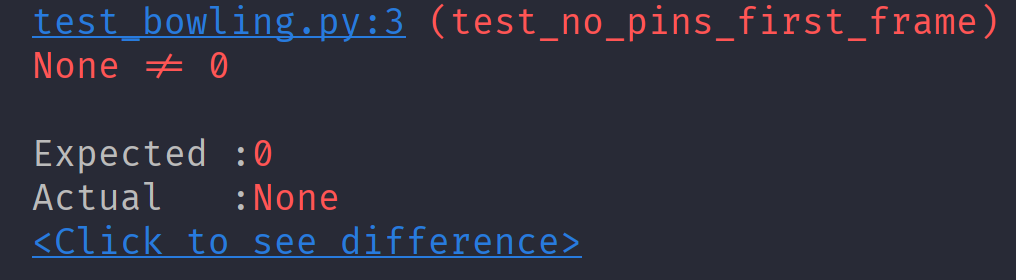
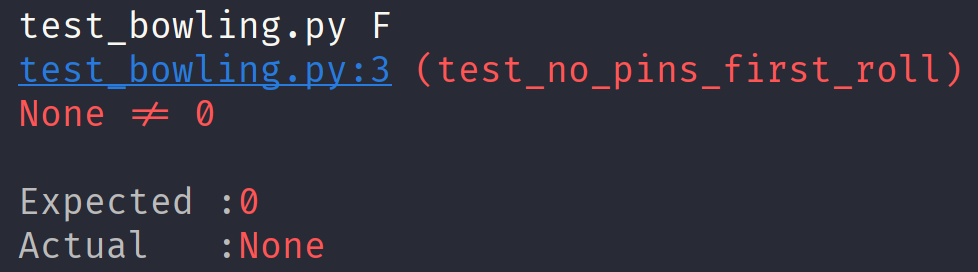
Pass: Given no pins were knocked down on the first frame, the score should be zero

diff --git a/bowling/test_bowling.py b/bowling/test_bowling.py
@@ -1,9 +1,9 @@
 from bowling.bowling import score_for
 
 
-def test_no_pins_first_frame():
+def test_no_pins_first_roll():
     """
-    Given no pins were knocked down on the first frame
+    Given no pins were knocked down on the first roll
     The score should be zero
     """
     assert score_for(all_rolls="0") == 0

diff --git a/bowling/bowling.py b/bowling/bowling.py
@@ -6,4 +6,4 @@ def score_for(all_rolls):
     :param all_rolls: string
     :return: int
     """
-    return None
+    return 0

diff --git a/README.md b/README.md
@@ -73,14 +73,14 @@ like to use a different one: ** The bowling kata ** The requirements of this kat
 I would start by implementing my new function returning None as first step. We return None, which
 is the top value in the transformation sequence:
 
-```
+```python
 def score_for(all_rolls):
     return None
 ```
 
 And implement a failing tests for a simple use case:
 
-```
+```python
 def test_no_pins_first_roll():
     """
     Given no pins were knocked down on the first roll
@@ -102,8 +102,20 @@ that with a zero.
 > you, the developer, and any other domain expert (a bowling player or bowl center owner)
 >
 
-The test is failing ❌ and this is great. We always want to start with a failing test
+The test is failing ❌ and this is great! We always want to start with a failing test
 that fails for the right reason and ensures our test cycle is healthy:
 
 ![img](bowling/screenshots/step_1.png)
 
+2. Fake it
+
+We now want to make that test pass by faking the implementation. That is as simple as:
+
+```python
+def score_for(all_rolls):
+    return 0
+```
+
+And we're now in transformation two (constant) and our test is passing ✅:
+
+![img](bowling/screenshots/step_2.png)
